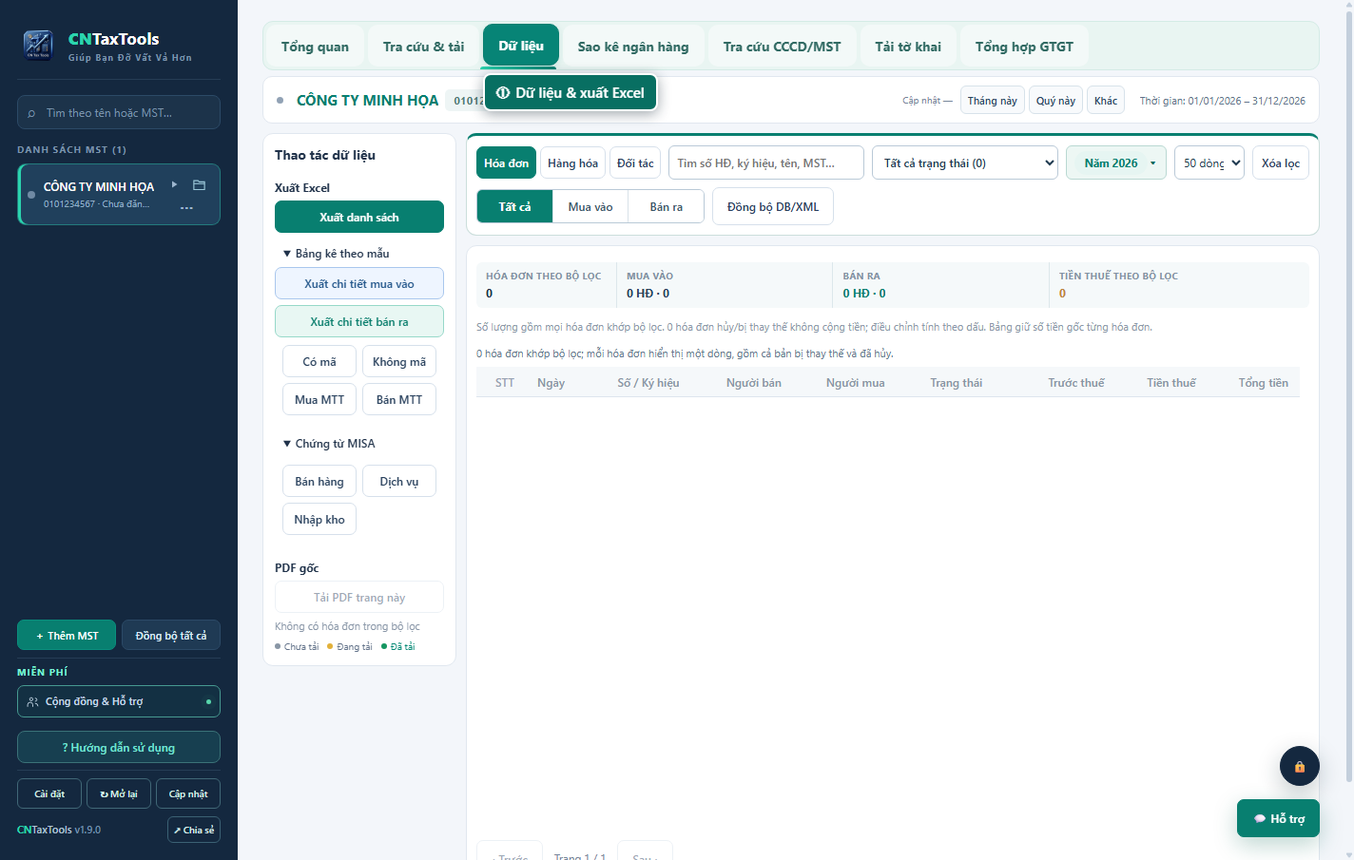
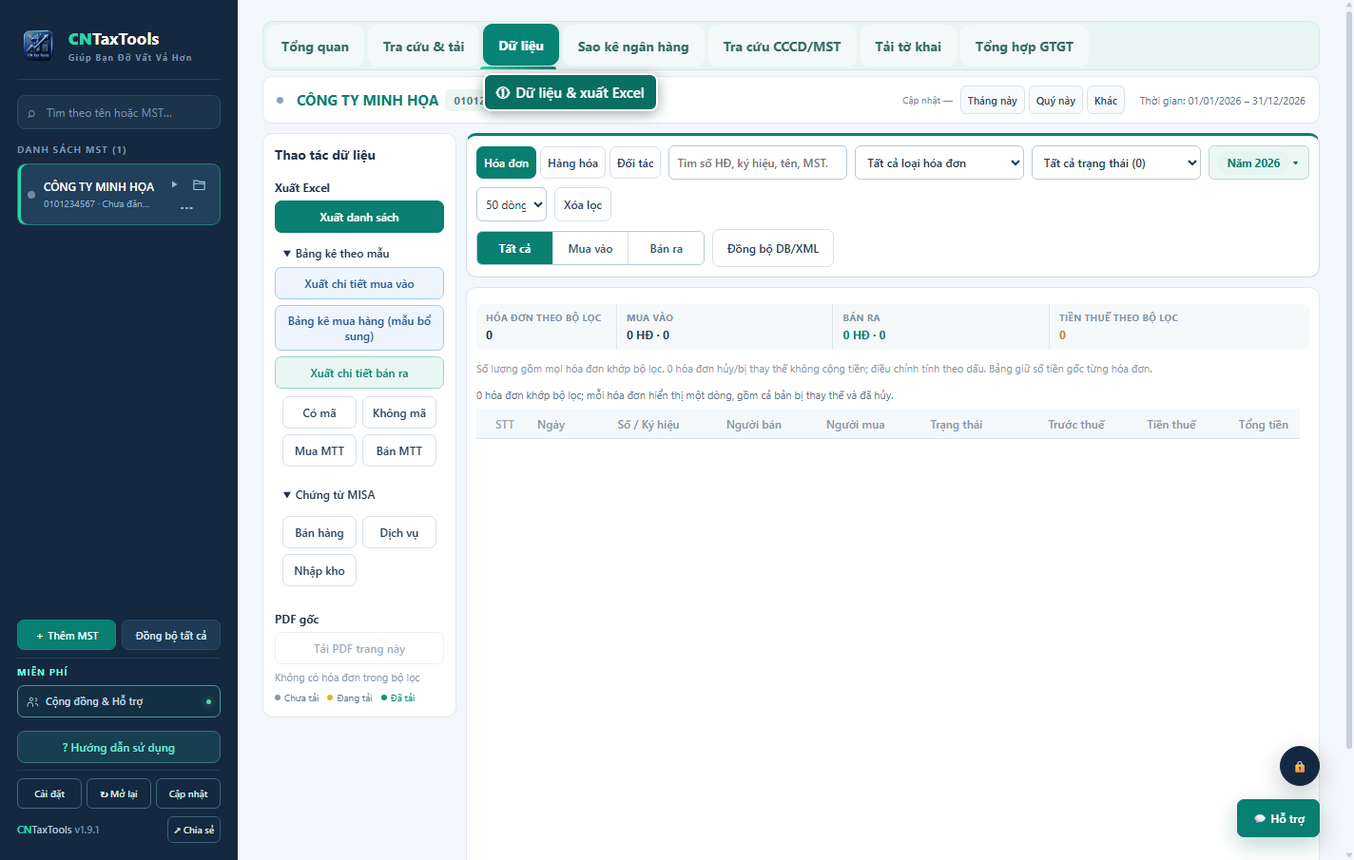
docs: update guide for v1.9.1

diff --git a/huong-dan/index.html b/huong-dan/index.html
@@ -1,1 +1,1 @@
-<!doctype html><html lang="vi"><head><meta charset="utf-8"><meta name="viewport" content="width=device-width,initial-scale=1"><title>Hướng dẫn CNTaxTools — Từ cài đặt đến sử dụng</title><meta name="description" content="Hướng dẫn CNTaxTools bằng hình ảnh: cài đặt, thêm MST, tải hóa đơn, xuất Excel, sao kê và tờ khai."><link rel="stylesheet" href="guide.css"></head><body><header><a href="../">← CNTaxTools</a><strong>Hướng dẫn sử dụng</strong><a href="../#install">Tải & cài đặt</a></header><div class="layout"><nav aria-label="Mục hướng dẫn"><h2>Bạn cần làm gì?</h2><label for="guide-search">Tìm chức năng</label><input id="guide-search" type="search" placeholder="Ví dụ: tải hóa đơn, Excel…"><p id="guide-empty" hidden>Không tìm thấy. Thử từ khóa khác.</p><div id="guide-topics"><a href="#cai-dat"><span>01</span>Cài đặt ứng dụng</a><a href="#them-mst"><span>02</span>Bắt đầu: thêm MST</a><a href="#tai-hoa-don"><span>03</span>Tra cứu &amp; tải hóa đơn</a><a href="#du-lieu"><span>04</span>Dữ liệu &amp; xuất Excel</a><a href="#tong-quan"><span>05</span>Tổng quan</a><a href="#sao-ke"><span>06</span>Sao kê, công nợ &amp; sổ tiền</a><a href="#tra-cuu-mst"><span>07</span>Tra cứu CCCD/MST</a><a href="#to-khai"><span>08</span>Tải tờ khai</a><a href="#thue"><span>09</span>Tổng hợp GTGT</a><a href="#cap-nhat"><span>10</span>Cập nhật &amp; hỗ trợ</a></div><small>Đối chiếu nội dung: 2026-10-28<br>Dành cho phiên bản 1.9.0</small></nav><main><article id="cai-dat" data-topic><p class="eyebrow">1 / 10 · CNTaxTools 1.9.0</p><h1>Cài đặt ứng dụng</h1><p class="intro">Tải bộ cài chính thức, xử lý cảnh báo và mở ứng dụng.</p><figure><a href="images/cai-dat.png" target="_blank" rel="noopener"><img src="images/cai-dat.png" alt="Cài đặt ứng dụng — giao diện với dữ liệu minh họa" loading="lazy" width="1440" height="1000"></a><figcaption>Ảnh tham khảo cảnh báo Windows (Microsoft / Wikimedia Commons, PD-text). Bấm ảnh để phóng to.</figcaption></figure><ol><li>Mở trang CNTaxTools và chọn Tải cho Windows. Bộ cài CNTaxTools-Setup-v…exe và tên tương thích CN-Tax-Tools-Setup-v…exe có cùng nội dung.</li><li>Nếu trình duyệt chặn vì file chưa phổ biến, kiểm tra link tải chính thức. Có thể sao chép link và mở bằng Chrome.</li><li>Bộ cài chứa đầy đủ chương trình, không cần tải thêm thành phần sau khi cài. Nếu Windows hiện “Windows protected your PC”, kiểm tra đúng file từ trang chính thức trước khi chọn More info và Run anyway nếu có.</li><li>Khi nâng cấp, để trống phần chọn dữ liệu để giữ kho đang dùng. Muốn dùng thư mục du_lieu cũ, đóng ứng dụng cũ rồi chọn đúng thư mục; lựa chọn Dùng trực tiếp giữ nguyên kho, không gộp hai kho.</li><li>Mở CNTaxTools từ biểu tượng trên màn hình. Gỡ cài đặt vẫn giữ dữ liệu, mật khẩu đã lưu và cookie để cài lại dùng tiếp.</li></ol><aside>Nếu trình bảo vệ báo phát hiện mã độc hoặc máy cơ quan không cho phép chạy, dừng lại và liên hệ hỗ trợ/quản trị viên; không tắt phần mềm bảo vệ.</aside><p><a href="../#install">Xem ảnh cảnh báo Edge và Windows →</a></p><footer><a href="#cai-dat">← Mục trước</a><button type="button" class="copy-link">Sao chép link mục này</button><a href="#them-mst">Mục tiếp →</a></footer><p class="copy-status" role="status"></p></article><article id="them-mst" data-topic><p class="eyebrow">2 / 10 · CNTaxTools 1.9.0</p><h1>Bắt đầu: thêm MST</h1><p class="intro">Tạo khách hàng đầu tiên và chọn thư mục hóa đơn.</p><figure><a href="images/them-mst.png" target="_blank" rel="noopener"><img src="images/them-mst.png" alt="Bắt đầu: thêm MST — giao diện với dữ liệu minh họa" loading="lazy" width="1440" height="1000"></a><figcaption>Ảnh từ giao diện thử với dữ liệu minh họa. Bấm ảnh để phóng to.</figcaption></figure><ol><li>Bấm + Thêm MST ở cột bên trái.</li><li>Nhập tên khách hàng và mã số thuế. Nhập mật khẩu cổng thuế nếu muốn ứng dụng hỗ trợ đăng nhập.</li><li>Bấm Lưu vào danh sách, rồi chọn khách hàng vừa thêm ở cột trái.</li><li>Mở Tra cứu &amp; tải để chọn thư mục lưu hóa đơn nếu chưa thiết lập. Kiểm tra đúng MST trước khi tra cứu hoặc xuất file.</li></ol><aside>Mỗi khách hàng là một MST. Luôn kiểm tra MST đang chọn trước khi thao tác.</aside><footer><a href="#cai-dat">← Mục trước</a><button type="button" class="copy-link">Sao chép link mục này</button><a href="#tai-hoa-don">Mục tiếp →</a></footer><p class="copy-status" role="status"></p></article><article id="tai-hoa-don" data-topic><p class="eyebrow">3 / 10 · CNTaxTools 1.9.0</p><h1>Tra cứu &amp; tải hóa đơn</h1><p class="intro">Chọn kỳ, mua vào/bán ra và loại file cần lấy.</p><figure><a href="images/tai-hoa-don.png" target="_blank" rel="noopener"><img src="images/tai-hoa-don.png" alt="Tra cứu &amp; tải hóa đơn — giao diện với dữ liệu minh họa" loading="lazy" width="1440" height="1000"></a><figcaption>Ảnh từ giao diện thử với dữ liệu minh họa. Bấm ảnh để phóng to.</figcaption></figure><ol><li>Chọn MST bên trái rồi mở tab Tra cứu &amp; tải.</li><li>Chọn khoảng ngày và chiều Mua vào hoặc Bán ra theo nhu cầu.</li><li>Chọn XML nếu cần hóa đơn kèm bảng kê. Chế độ chỉ bảng kê Excel không tải file hóa đơn.</li><li>Bình thường để Fix lỗi MTT tắt. Khi tải hóa đơn máy tính tiền chậm, bật Fix lỗi MTT để tải đồng thời toàn bộ hóa đơn MTT sẵn sàng, không áp trần luồng; hóa đơn điện tử vẫn giữ nhịp mặc định.</li><li>Bắt đầu tải và theo dõi thông báo. Lỗi tạm thời như 429/504 được chờ rồi tự thử lại; bấm Ngưng để dừng. CAPTCHA tra cứu sai được lấy lại; hết phiên sẽ thử đăng nhập lại bằng tài khoản đã lưu, sai mật khẩu thì dừng.</li><li>Trong cấu hình Đồng bộ có lựa chọn Fix lỗi MTT riêng cho từng MST, mặc định tắt. Bật ở màn hình tải không tự bật cho Đồng bộ.</li><li>Mở thư mục của MST để kiểm tra file đã tải.</li></ol><aside>Cổng thuế có thể giới hạn truy cập hoặc yêu cầu đăng nhập lại. Không bấm tải liên tục khi đang có cảnh báo chờ. Bảng tổng hợp gốc dùng bộ lọc riêng của cổng nên có thể khác bộ lọc hóa đơn; ứng dụng ghi rõ giới hạn và hiển thị lỗi nguyên văn từ nguồn.</aside><footer><a href="#them-mst">← Mục trước</a><button type="button" class="copy-link">Sao chép link mục này</button><a href="#du-lieu">Mục tiếp →</a></footer><p class="copy-status" role="status"></p></article><article id="du-lieu" data-topic><p class="eyebrow">4 / 10 · CNTaxTools 1.9.0</p><h1>Dữ liệu &amp; xuất Excel</h1><p class="intro">Lọc, xem liên kết hóa đơn, đối chiếu DB/XML và xuất Excel.</p><figure><a href="images/du-lieu.png" target="_blank" rel="noopener"><img src="images/du-lieu.png" alt="Dữ liệu &amp; xuất Excel — giao diện với dữ liệu minh họa" loading="lazy" width="1440" height="1000"></a><figcaption>Ảnh từ giao diện thử với dữ liệu minh họa. Bấm ảnh để phóng to.</figcaption></figure><ol><li>Chọn Dữ liệu, rồi chọn Hóa đơn, Hàng hóa hoặc Đối tác. Kiểm tra MST và kỳ trước khi xem số tiền.</li><li>Bấm Tháng này hoặc Quý này cùng hàng tên công ty để đổi kỳ nhanh. Bấm Khác để chọn tháng, quý, năm, tất cả hoặc nhập khoảng ngày rồi bấm Áp dụng. Dòng Thời gian bên cạnh cho biết khoảng ngày đang lọc. Chọn trạng thái hóa đơn kết hợp tìm kiếm và Mua vào/Bán ra trên thanh lọc chính. Mỗi hóa đơn khớp bộ lọc hiển thị một dòng, kể cả bản bị thay thế hoặc đã hủy. Bấm liên kết trên dòng để xem hóa đơn gốc, điều chỉnh hoặc thay thế.</li><li>Thống kê tiền loại hóa đơn hủy/bị thay thế, giữ hóa đơn gốc đã điều chỉnh cùng số tăng giảm. Bảng vẫn giữ số gốc từng chứng từ để tra cứu.</li><li>Nút Đồng bộ DB/XML cùng hàng Tất cả, Mua vào, Bán ra đọc lại XML trong kho để cập nhật dữ liệu của MST đang chọn. Hóa đơn chỉ có dữ liệu cục thuế vẫn có dòng trong danh sách và được tính tiền tổng đã biết; phần thiếu thuế hoặc chi tiết được báo riêng.</li><li>Bấm hóa đơn để xem PDF gốc nếu đã có. Khung xem có tiêu đề Hóa đơn. Nếu chưa có PDF gốc thì mở bản thể hiện từ XML hoặc dữ liệu Cục Thuế đã lưu; trường chưa có để trống. Có thể tải lại hoặc chọn file PDF gốc.</li><li>Chọn Xuất Excel hoặc mẫu bảng kê/chứng từ để xuất trực tiếp theo bộ lọc hiện tại, không cần xác nhận phân loại hay đối chiếu liên kết. File giữ cả bản bị thay thế và đã hủy nếu khớp bộ lọc. Hai nút Xuất chi tiết mua vào (xanh dương) và Xuất chi tiết bán ra (xanh ngọc) xuất từng dòng hàng theo chiều tương ứng, giữ kỳ, tìm kiếm và trạng thái đang lọc. Hóa đơn thiếu XML vẫn giữ thông tin và số tiền tổng, phần chi tiết chưa có để trống.</li></ol><aside>Đơn vị tiền trống dùng VND; ngoại tệ được tách riêng. Cùng kỳ và phạm vi, tiền thống kê khớp Tổng quan. Không suy ra quyền khấu trừ từ màu hoặc số tiền.</aside><footer><a href="#tai-hoa-don">← Mục trước</a><button type="button" class="copy-link">Sao chép link mục này</button><a href="#tong-quan">Mục tiếp →</a></footer><p class="copy-status" role="status"></p></article><article id="tong-quan" data-topic><p class="eyebrow">5 / 10 · CNTaxTools 1.9.0</p><h1>Tổng quan</h1><p class="intro">Xem mua vào, bán ra và các việc cần đối chiếu theo kỳ.</p><figure><a href="images/tong-quan.png" target="_blank" rel="noopener"><img src="images/tong-quan.png" alt="Tổng quan — giao diện với dữ liệu minh họa" loading="lazy" width="1440" height="1000"></a><figcaption>Ảnh từ giao diện thử với dữ liệu minh họa. Bấm ảnh để phóng to.</figcaption></figure><ol><li>Chọn MST và kỳ ở thanh trên cùng. Bán ra và mua vào là tổng thanh toán của hóa đơn đang sử dụng, không phải lợi nhuận.</li><li>Số tiền cùng cách tính với tab Dữ liệu. Hóa đơn hủy/bị thay thế không cộng; gốc đã điều chỉnh và phần tăng giảm vẫn giữ.</li><li>Kết quả đã tính được dùng lại khi dữ liệu không đổi. Các ô tiền có thể hiện trước khi phần ngân hàng/công nợ tải xong.</li><li>Mở các mục cần kiểm tra để xem chứng từ và xử lý. Dữ liệu còn thiếu được ghi rõ, không coi phần thiếu là số 0.</li></ol><aside>Cache hiện nằm trong RAM; sau khi tắt hoặc cập nhật ứng dụng, lần đầu có thể cần tính lại. Chênh lệch bán–mua không phải lợi nhuận.</aside><footer><a href="#du-lieu">← Mục trước</a><button type="button" class="copy-link">Sao chép link mục này</button><a href="#sao-ke">Mục tiếp →</a></footer><p class="copy-status" role="status"></p></article><article id="sao-ke" data-topic><p class="eyebrow">6 / 10 · CNTaxTools 1.9.0</p><h1>Sao kê, công nợ &amp; sổ tiền</h1><p class="intro">Nhập sao kê, đối chiếu hóa đơn, theo dõi công nợ và lập sổ.</p><figure><a href="images/sao-ke.png" target="_blank" rel="noopener"><img src="images/sao-ke.png" alt="Sao kê, công nợ &amp; sổ tiền — giao diện với dữ liệu minh họa" loading="lazy" width="1440" height="1000"></a><figcaption>Ảnh từ giao diện thử với dữ liệu minh họa. Bấm ảnh để phóng to.</figcaption></figure><ol><li>Chọn MST, mở Sao kê ngân hàng. Bấm Nhập file sao kê, chọn tài khoản/loại tiền và kiểm tra trước khi lưu.</li><li>Ở Giao dịch, Nợ là tiền vào và Có là tiền ra khỏi tài khoản ngân hàng (TK 112). Tìm kiếm hoặc chọn nhiều dòng để phân loại. Nhập trùng được kiểm tra trước khi lưu.</li><li>Mở Đối chiếu để xem gợi ý theo hóa đơn. Kiểm tra bằng chứng rồi Xác nhận với căn cứ thanh toán; dùng Phân bổ khác cho nhiều hóa đơn hoặc thanh toán một phần. Gợi ý chưa làm giảm công nợ.</li><li>Mở Công nợ để xem khách hàng/nhà cung cấp, số đã xác nhận và còn lại. Lọc chiều, trạng thái hoặc tìm số hóa đơn, tên, MST.</li><li>Mở Sổ tiền gửi để xem số dư từng tài khoản/loại tiền. Khai số dư đầu có căn cứ; kiểm tra các dòng lệch số dư sao kê.</li><li>Mở Sổ quỹ, tạo quỹ tiền mặt và lập phiếu thu/chi thực tế. Có thể gắn thanh toán vào hóa đơn; hủy phiếu sai có lý do.</li><li>Bấm Lập nghiệp vụ từ giao dịch hoặc phiếu, mở Nghiệp vụ kiểm tra tài khoản Nợ/Có và chứng từ trước khi xác nhận. Không tự suy ra doanh thu/chi phí từ dòng tiền chưa rõ.</li><li>Bấm Xuất Excel ở khu vực đang xem để lấy sổ tiền gửi, tiền mặt, công nợ, thanh toán hóa đơn, nghiệp vụ và cảnh báo theo kỳ.</li></ol><aside>Chưa xác nhận không khẳng định thực tế chưa trả. Không cộng trực tiếp ngoại tệ vào VND; xác nhận phân bổ ngân hàng và nghiệp vụ hiện dành cho VND. Chuỗi hóa đơn điều chỉnh được tách để đối chiếu, chưa tự chốt công nợ ròng. Sổ quản trị cần được kiểm tra theo chế độ kế toán áp dụng.</aside><footer><a href="#tong-quan">← Mục trước</a><button type="button" class="copy-link">Sao chép link mục này</button><a href="#tra-cuu-mst">Mục tiếp →</a></footer><p class="copy-status" role="status"></p></article><article id="tra-cuu-mst" data-topic><p class="eyebrow">7 / 10 · CNTaxTools 1.9.0</p><h1>Tra cứu CCCD/MST</h1><p class="intro">Nhập tay hoặc nhập danh sách từ Excel, giữ mã 12 số và số 0 đầu.</p><figure><a href="images/tra-cuu-mst.png" target="_blank" rel="noopener"><img src="images/tra-cuu-mst.png" alt="Tra cứu CCCD/MST — giao diện với dữ liệu minh họa" loading="lazy" width="1440" height="1000"></a><figcaption>Ảnh từ giao diện thử với dữ liệu minh họa. Bấm ảnh để phóng to.</figcaption></figure><ol><li>Mở Tra cứu CCCD/MST.</li><li>Nhập CCCD hoặc MST bên trái; mỗi mã một dòng, hoặc ngăn cách bằng dấu phẩy.</li><li>Hoặc bấm Nhập Excel, chọn file .xlsx, .xls hoặc .csv. Nếu có nhiều cột phù hợp, chọn cột cần dùng. Kiểm tra danh sách mã và các dòng cần kiểm tra trước khi tiếp tục.</li><li>Bấm Bắt đầu tra cứu và xem kết quả bên phải; nhập Excel chưa tự gửi tra cứu.</li><li>Nếu nguồn tra cứu đầu tiên không trả kết quả, làm theo yêu cầu nguồn dự phòng khi xuất hiện.</li></ol><aside>Giữ mã đầy đủ trong Excel, kể cả số 0 đầu; ứng dụng không thể phục hồi số đã bị Excel xóa. Không tìm thấy qua một nguồn chưa chứng minh người đó chưa đăng ký kinh doanh.</aside><footer><a href="#sao-ke">← Mục trước</a><button type="button" class="copy-link">Sao chép link mục này</button><a href="#to-khai">Mục tiếp →</a></footer><p class="copy-status" role="status"></p></article><article id="to-khai" data-topic><p class="eyebrow">8 / 10 · CNTaxTools 1.9.0</p><h1>Tải tờ khai</h1><p class="intro">Tìm kiếm, tự tải XML và xem PDF từ nội dung XML.</p><figure><a href="images/to-khai.png" target="_blank" rel="noopener"><img src="images/to-khai.png" alt="Tải tờ khai — giao diện với dữ liệu minh họa" loading="lazy" width="1440" height="1000"></a><figcaption>Ảnh từ giao diện thử với dữ liệu minh họa. Bấm ảnh để phóng to.</figcaption></figure><ol><li>Chọn đúng MST rồi mở Tải tờ khai.</li><li>Chọn cổng Dịch vụ công hoặc Thuế điện tử. Ứng dụng kiểm tra phiên của MST đang chọn; phiên còn hiệu lực được dùng lại. Nếu chưa đăng nhập hoặc hết phiên, modal hiển thị đúng MST/cổng để nhập tài khoản, mật khẩu và CAPTCHA.</li><li>Khi trạng thái chuyển xanh, chọn loại hồ sơ và thời gian tra cứu.</li><li>Bấm Tìm kiếm: khi có hồ sơ, ứng dụng tự tải các XML và giải nén XML trong ZIP vào thư mục MST đang quản lý.</li><li>Đợi tải và dựng bản xem hoàn tất. Hồ sơ không có XML hoặc tải lỗi sẽ hiển thị trạng thái để kiểm tra.</li><li>Bấm nút tên XML trên hồ sơ; XML trong ZIP cũ được giải nén vào cùng thư mục rồi đưa vào danh sách. Tờ khai chính được ưu tiên mở trước các thông báo.</li><li>Chọn Bản dựng để xem PDF ngay trong ứng dụng, hoặc iTaxViewer để mở XML trong cửa sổ iTaxViewer riêng. Chuyển lại Bản dựng sẽ giữ PDF đang xem.</li><li>Trong chế độ Bản dựng, bấm Lưu PDF để lưu ngay cạnh XML tờ khai, hoặc bấm In. Trong chế độ iTaxViewer, dùng menu In của iTaxViewer; các nút lưu/in bản dựng chỉ bật khi trở về Bản dựng.</li><li>PDF ưu tiên dựng bằng mẫu iTaxViewer đã cài trên máy, đúng mã và phiên bản XML, khổ A4 ngang. Nếu không tìm thấy mẫu phù hợp, giao diện ghi rõ chỉ là bản đọc dữ liệu. Phần chữ ký hiển thị theo XML, chưa xác minh tính hợp lệ; XML gốc không đổi.</li></ol><aside>Màu vàng là đang kiểm tra hoặc chờ thử lại. CAPTCHA tự thử lại khi lỗi kết nối tạm thời; có thể bấm Đổi mã. Đổi MST đóng modal cũ và lấy mã riêng cho MST mới. Có thể dùng Đồng bộ Web để đăng nhập trên Chrome.</aside><footer><a href="#tra-cuu-mst">← Mục trước</a><button type="button" class="copy-link">Sao chép link mục này</button><a href="#thue">Mục tiếp →</a></footer><p class="copy-status" role="status"></p></article><article id="thue" data-topic><p class="eyebrow">9 / 10 · CNTaxTools 1.9.0</p><h1>Tổng hợp GTGT</h1><p class="intro">Đối chiếu tổng tiền và thuế GTGT theo quý, xuất Excel hoặc PDF.</p><figure><a href="images/thue.png" target="_blank" rel="noopener"><img src="images/thue.png" alt="Tổng hợp GTGT — giao diện với dữ liệu minh họa" loading="lazy" width="1440" height="1000"></a><figcaption>Ảnh từ giao diện thử với dữ liệu minh họa. Bấm ảnh để phóng to.</figcaption></figure><ol><li>Mở Tổng hợp GTGT, chọn quý và đơn vị tiền. Mặc định VND; ngoại tệ xem riêng.</li><li>Đọc tổng tiền mua/bán, tiền trước thuế và tiền thuế. Phần lẻ được giữ nguyên; hóa đơn thiếu số tiền được báo rõ.</li><li>Bảng theo thuế suất tách phần có chi tiết, phần chưa phân loại/đối chiếu và tổng trên hóa đơn. Hóa đơn chưa có XML vẫn nằm trong tiền tổng nếu có dữ liệu cục thuế.</li><li>Nếu cần, mở mục khoản khấu trừ để nhập số đã kiểm tra. Ứng dụng không tự coi toàn bộ thuế mua vào là được khấu trừ.</li><li>Chọn Xuất Excel hoặc Xuất PDF. Kiểm tra đúng kỳ/đơn vị; file dùng cùng số liệu đang hiển thị.</li></ol><aside>Bảng tham khảo theo ngày lập hóa đơn; chưa phải tờ khai hoặc số thuế đã chốt. Cần đối chiếu riêng điều chỉnh/thay thế khác kỳ.</aside><footer><a href="#to-khai">← Mục trước</a><button type="button" class="copy-link">Sao chép link mục này</button><a href="#cap-nhat">Mục tiếp →</a></footer><p class="copy-status" role="status"></p></article><article id="cap-nhat" data-topic><p class="eyebrow">10 / 10 · CNTaxTools 1.9.0</p><h1>Cập nhật &amp; hỗ trợ</h1><p class="intro">Kiểm tra bản mới, mở lại ứng dụng và nhận trợ giúp.</p><figure><a href="images/cap-nhat.png" target="_blank" rel="noopener"><img src="images/cap-nhat.png" alt="Cập nhật &amp; hỗ trợ — giao diện với dữ liệu minh họa" loading="lazy" width="1440" height="1000"></a><figcaption>Ảnh từ giao diện thử với dữ liệu minh họa. Bấm ảnh để phóng to.</figcaption></figure><ol><li>Bấm Cập nhật ở cuối cột trái để kiểm tra phiên bản mới.</li><li>Đọc nội dung thay đổi trước khi chọn cập nhật. Có thể để cập nhật sau.</li><li>Khi cần khởi động lại cả ứng dụng chạy nền, dùng Mở lại.</li><li>Mở Cộng đồng &amp; Hỗ trợ nếu cần trao đổi thêm. Gửi ảnh lỗi và bước thao tác; không gửi mật khẩu.</li></ol><aside>Hoàn tất hoặc dừng an toàn tác vụ đang chạy trước khi khởi động lại hay cập nhật.</aside><footer><a href="#thue">← Mục trước</a><button type="button" class="copy-link">Sao chép link mục này</button><a href="#cap-nhat">Mục tiếp →</a></footer><p class="copy-status" role="status"></p></article></main></div><script src="guide.js" defer></script></body></html>
+<!doctype html><html lang="vi"><head><meta charset="utf-8"><meta name="viewport" content="width=device-width,initial-scale=1"><title>Hướng dẫn CNTaxTools — Từ cài đặt đến sử dụng</title><meta name="description" content="Hướng dẫn CNTaxTools bằng hình ảnh: cài đặt, thêm MST, tải hóa đơn, xuất Excel, sao kê và tờ khai."><link rel="stylesheet" href="guide.css"></head><body><header><a href="../">← CNTaxTools</a><strong>Hướng dẫn sử dụng</strong><a href="../#install">Tải & cài đặt</a></header><div class="layout"><nav aria-label="Mục hướng dẫn"><h2>Bạn cần làm gì?</h2><label for="guide-search">Tìm chức năng</label><input id="guide-search" type="search" placeholder="Ví dụ: tải hóa đơn, Excel…"><p id="guide-empty" hidden>Không tìm thấy. Thử từ khóa khác.</p><div id="guide-topics"><a href="#cai-dat"><span>01</span>Cài đặt ứng dụng</a><a href="#them-mst"><span>02</span>Bắt đầu: thêm MST</a><a href="#tai-hoa-don"><span>03</span>Tra cứu &amp; tải hóa đơn</a><a href="#du-lieu"><span>04</span>Dữ liệu &amp; xuất Excel</a><a href="#tong-quan"><span>05</span>Tổng quan</a><a href="#sao-ke"><span>06</span>Sao kê, công nợ &amp; sổ tiền</a><a href="#tra-cuu-mst"><span>07</span>Tra cứu CCCD/MST</a><a href="#to-khai"><span>08</span>Tải tờ khai</a><a href="#thue"><span>09</span>Tổng hợp GTGT</a><a href="#cap-nhat"><span>10</span>Cập nhật &amp; hỗ trợ</a></div><small>Đối chiếu nội dung: 2026-10-31<br>Dành cho phiên bản 1.9.1</small></nav><main><article id="cai-dat" data-topic><p class="eyebrow">1 / 10 · CNTaxTools 1.9.1</p><h1>Cài đặt ứng dụng</h1><p class="intro">Tải bộ cài chính thức, xử lý cảnh báo và mở ứng dụng.</p><figure><a href="images/cai-dat.png" target="_blank" rel="noopener"><img src="images/cai-dat.png" alt="Cài đặt ứng dụng — giao diện với dữ liệu minh họa" loading="lazy" width="1440" height="1000"></a><figcaption>Ảnh tham khảo cảnh báo Windows (Microsoft / Wikimedia Commons, PD-text). Bấm ảnh để phóng to.</figcaption></figure><ol><li>Mở trang CNTaxTools và chọn Tải cho Windows. Bộ cài CNTaxTools-Setup-v…exe và tên tương thích CN-Tax-Tools-Setup-v…exe có cùng nội dung.</li><li>Nếu trình duyệt chặn vì file chưa phổ biến, kiểm tra link tải chính thức. Có thể sao chép link và mở bằng Chrome.</li><li>Bộ cài chứa đầy đủ chương trình, không cần tải thêm thành phần sau khi cài. Nếu Windows hiện “Windows protected your PC”, kiểm tra đúng file từ trang chính thức trước khi chọn More info và Run anyway nếu có.</li><li>Khi nâng cấp, để trống phần chọn dữ liệu để giữ kho đang dùng. Muốn dùng thư mục du_lieu cũ, đóng ứng dụng cũ rồi chọn đúng thư mục; lựa chọn Dùng trực tiếp giữ nguyên kho, không gộp hai kho.</li><li>Mở CNTaxTools từ biểu tượng trên màn hình. Gỡ cài đặt vẫn giữ dữ liệu, mật khẩu đã lưu và cookie để cài lại dùng tiếp.</li></ol><aside>Nếu trình bảo vệ báo phát hiện mã độc hoặc máy cơ quan không cho phép chạy, dừng lại và liên hệ hỗ trợ/quản trị viên; không tắt phần mềm bảo vệ.</aside><p><a href="../#install">Xem ảnh cảnh báo Edge và Windows →</a></p><footer><a href="#cai-dat">← Mục trước</a><button type="button" class="copy-link">Sao chép link mục này</button><a href="#them-mst">Mục tiếp →</a></footer><p class="copy-status" role="status"></p></article><article id="them-mst" data-topic><p class="eyebrow">2 / 10 · CNTaxTools 1.9.1</p><h1>Bắt đầu: thêm MST</h1><p class="intro">Tạo khách hàng đầu tiên và chọn thư mục hóa đơn.</p><figure><a href="images/them-mst.png" target="_blank" rel="noopener"><img src="images/them-mst.png" alt="Bắt đầu: thêm MST — giao diện với dữ liệu minh họa" loading="lazy" width="1440" height="1000"></a><figcaption>Ảnh từ giao diện thử với dữ liệu minh họa. Bấm ảnh để phóng to.</figcaption></figure><ol><li>Bấm + Thêm MST ở cột bên trái.</li><li>Nhập tên khách hàng và mã số thuế. Nhập mật khẩu cổng thuế nếu muốn ứng dụng hỗ trợ đăng nhập.</li><li>Bấm Lưu vào danh sách, rồi chọn khách hàng vừa thêm ở cột trái.</li><li>Mở Tra cứu &amp; tải để chọn thư mục lưu hóa đơn nếu chưa thiết lập. Kiểm tra đúng MST trước khi tra cứu hoặc xuất file.</li></ol><aside>Mỗi khách hàng là một MST. Luôn kiểm tra MST đang chọn trước khi thao tác.</aside><footer><a href="#cai-dat">← Mục trước</a><button type="button" class="copy-link">Sao chép link mục này</button><a href="#tai-hoa-don">Mục tiếp →</a></footer><p class="copy-status" role="status"></p></article><article id="tai-hoa-don" data-topic><p class="eyebrow">3 / 10 · CNTaxTools 1.9.1</p><h1>Tra cứu &amp; tải hóa đơn</h1><p class="intro">Chọn kỳ, mua vào/bán ra và loại file cần lấy.</p><figure><a href="images/tai-hoa-don.png" target="_blank" rel="noopener"><img src="images/tai-hoa-don.png" alt="Tra cứu &amp; tải hóa đơn — giao diện với dữ liệu minh họa" loading="lazy" width="1440" height="1000"></a><figcaption>Ảnh từ giao diện thử với dữ liệu minh họa. Bấm ảnh để phóng to.</figcaption></figure><ol><li>Chọn MST bên trái rồi mở tab Tra cứu &amp; tải.</li><li>Chọn khoảng ngày và chiều Mua vào hoặc Bán ra theo nhu cầu.</li><li>Chọn XML nếu cần hóa đơn kèm bảng kê. Chế độ chỉ bảng kê Excel không tải file hóa đơn.</li><li>Bình thường để Fix lỗi MTT tắt. Khi tải hóa đơn máy tính tiền chậm, bật Fix lỗi MTT để tải đồng thời toàn bộ hóa đơn MTT sẵn sàng, không áp trần luồng; hóa đơn điện tử vẫn giữ nhịp mặc định.</li><li>Bắt đầu tải và theo dõi thông báo. Lỗi tạm thời như 429/504 được chờ rồi tự thử lại; bấm Ngưng để dừng. CAPTCHA tra cứu sai được lấy lại; hết phiên sẽ thử đăng nhập lại bằng tài khoản đã lưu, sai mật khẩu thì dừng.</li><li>Trong cấu hình Đồng bộ có lựa chọn Fix lỗi MTT riêng cho từng MST, mặc định tắt. Bật ở màn hình tải không tự bật cho Đồng bộ.</li><li>Mở thư mục của MST để kiểm tra file đã tải.</li></ol><aside>Cổng thuế có thể giới hạn truy cập hoặc yêu cầu đăng nhập lại. Không bấm tải liên tục khi đang có cảnh báo chờ. Bảng tổng hợp gốc dùng bộ lọc riêng của cổng nên có thể khác bộ lọc hóa đơn; ứng dụng ghi rõ giới hạn và hiển thị lỗi nguyên văn từ nguồn.</aside><footer><a href="#them-mst">← Mục trước</a><button type="button" class="copy-link">Sao chép link mục này</button><a href="#du-lieu">Mục tiếp →</a></footer><p class="copy-status" role="status"></p></article><article id="du-lieu" data-topic><p class="eyebrow">4 / 10 · CNTaxTools 1.9.1</p><h1>Dữ liệu &amp; xuất Excel</h1><p class="intro">Lọc, xem liên kết hóa đơn, đối chiếu DB/XML và xuất Excel.</p><figure><a href="images/du-lieu.png" target="_blank" rel="noopener"><img src="images/du-lieu.png" alt="Dữ liệu &amp; xuất Excel — giao diện với dữ liệu minh họa" loading="lazy" width="1440" height="1000"></a><figcaption>Ảnh từ giao diện thử với dữ liệu minh họa. Bấm ảnh để phóng to.</figcaption></figure><ol><li>Chọn Dữ liệu, rồi chọn Hóa đơn, Hàng hóa hoặc Đối tác. Kiểm tra MST và kỳ trước khi xem số tiền.</li><li>Bấm Tháng này hoặc Quý này cùng hàng tên công ty để đổi kỳ nhanh. Bấm Khác để chọn tháng, quý, năm, tất cả hoặc nhập khoảng ngày rồi bấm Áp dụng. Dòng Thời gian bên cạnh cho biết khoảng ngày đang lọc. Chọn trạng thái hóa đơn, Loại hóa đơn (máy tính tiền, không mã CQT, điện tử) kết hợp tìm kiếm và Mua vào/Bán ra trên thanh lọc chính. Mỗi hóa đơn khớp bộ lọc hiển thị một dòng, kể cả bản bị thay thế hoặc đã hủy. Bấm liên kết trên dòng để xem hóa đơn gốc, điều chỉnh hoặc thay thế.</li><li>Thống kê tiền loại hóa đơn hủy/bị thay thế, giữ hóa đơn gốc đã điều chỉnh cùng số tăng giảm. Bảng vẫn giữ số gốc từng chứng từ để tra cứu.</li><li>Nút Đồng bộ DB/XML cùng hàng Tất cả, Mua vào, Bán ra đọc lại XML trong kho để cập nhật dữ liệu của MST đang chọn. Hóa đơn chỉ có dữ liệu cục thuế vẫn có dòng trong danh sách và được tính tiền tổng đã biết; phần thiếu thuế hoặc chi tiết được báo riêng.</li><li>Bấm hóa đơn để xem PDF gốc nếu đã có. Khung xem có tiêu đề Hóa đơn. Nếu chưa có PDF gốc thì mở bản thể hiện từ XML hoặc dữ liệu Cục Thuế đã lưu; trường chưa có để trống. Có thể tải lại hoặc chọn file PDF gốc.</li><li>Chọn Xuất Excel hoặc mẫu bảng kê/chứng từ để xuất trực tiếp theo bộ lọc hiện tại, không cần xác nhận phân loại hay đối chiếu liên kết. File giữ cả bản bị thay thế và đã hủy nếu khớp bộ lọc. Hai nút Xuất chi tiết mua vào (xanh dương) và Xuất chi tiết bán ra (xanh ngọc) xuất từng dòng hàng theo chiều tương ứng, giữ kỳ, tìm kiếm và trạng thái đang lọc. Nút Bảng kê mua hàng (mẫu bổ sung) xuất bảng kê mua vào theo mẫu bổ sung với đúng bộ lọc hiện tại. Hóa đơn thiếu XML vẫn giữ thông tin và số tiền tổng, phần chi tiết chưa có để trống.</li></ol><aside>Đơn vị tiền trống dùng VND; ngoại tệ được tách riêng. Cùng kỳ và phạm vi, tiền thống kê khớp Tổng quan. Không suy ra quyền khấu trừ từ màu hoặc số tiền.</aside><footer><a href="#tai-hoa-don">← Mục trước</a><button type="button" class="copy-link">Sao chép link mục này</button><a href="#tong-quan">Mục tiếp →</a></footer><p class="copy-status" role="status"></p></article><article id="tong-quan" data-topic><p class="eyebrow">5 / 10 · CNTaxTools 1.9.1</p><h1>Tổng quan</h1><p class="intro">Xem mua vào, bán ra và các việc cần đối chiếu theo kỳ.</p><figure><a href="images/tong-quan.png" target="_blank" rel="noopener"><img src="images/tong-quan.png" alt="Tổng quan — giao diện với dữ liệu minh họa" loading="lazy" width="1440" height="1000"></a><figcaption>Ảnh từ giao diện thử với dữ liệu minh họa. Bấm ảnh để phóng to.</figcaption></figure><ol><li>Chọn MST và kỳ ở thanh trên cùng. Bán ra và mua vào là tổng thanh toán của hóa đơn đang sử dụng, không phải lợi nhuận.</li><li>Số tiền cùng cách tính với tab Dữ liệu. Hóa đơn hủy/bị thay thế không cộng; gốc đã điều chỉnh và phần tăng giảm vẫn giữ.</li><li>Kết quả đã tính được dùng lại khi dữ liệu không đổi. Các ô tiền có thể hiện trước khi phần ngân hàng/công nợ tải xong.</li><li>Mở các mục cần kiểm tra để xem chứng từ và xử lý. Dữ liệu còn thiếu được ghi rõ, không coi phần thiếu là số 0.</li></ol><aside>Cache hiện nằm trong RAM; sau khi tắt hoặc cập nhật ứng dụng, lần đầu có thể cần tính lại. Chênh lệch bán–mua không phải lợi nhuận.</aside><footer><a href="#du-lieu">← Mục trước</a><button type="button" class="copy-link">Sao chép link mục này</button><a href="#sao-ke">Mục tiếp →</a></footer><p class="copy-status" role="status"></p></article><article id="sao-ke" data-topic><p class="eyebrow">6 / 10 · CNTaxTools 1.9.1</p><h1>Sao kê, công nợ &amp; sổ tiền</h1><p class="intro">Nhập sao kê, đối chiếu hóa đơn, theo dõi công nợ và lập sổ.</p><figure><a href="images/sao-ke.png" target="_blank" rel="noopener"><img src="images/sao-ke.png" alt="Sao kê, công nợ &amp; sổ tiền — giao diện với dữ liệu minh họa" loading="lazy" width="1440" height="1000"></a><figcaption>Ảnh từ giao diện thử với dữ liệu minh họa. Bấm ảnh để phóng to.</figcaption></figure><ol><li>Chọn MST, mở Sao kê ngân hàng. Bấm Nhập file sao kê, chọn tài khoản/loại tiền và kiểm tra trước khi lưu.</li><li>Ở Giao dịch, Nợ là tiền vào và Có là tiền ra khỏi tài khoản ngân hàng (TK 112). Tìm kiếm hoặc chọn nhiều dòng để phân loại. Nhập trùng được kiểm tra trước khi lưu.</li><li>Mở Đối chiếu để xem gợi ý theo hóa đơn. Kiểm tra bằng chứng rồi Xác nhận với căn cứ thanh toán; dùng Phân bổ khác cho nhiều hóa đơn hoặc thanh toán một phần. Gợi ý chưa làm giảm công nợ.</li><li>Mở Công nợ để xem khách hàng/nhà cung cấp, số đã xác nhận và còn lại. Lọc chiều, trạng thái hoặc tìm số hóa đơn, tên, MST.</li><li>Mở Sổ tiền gửi để xem số dư từng tài khoản/loại tiền. Khai số dư đầu có căn cứ; kiểm tra các dòng lệch số dư sao kê.</li><li>Mở Sổ quỹ, tạo quỹ tiền mặt và lập phiếu thu/chi thực tế. Có thể gắn thanh toán vào hóa đơn; hủy phiếu sai có lý do.</li><li>Bấm Lập nghiệp vụ từ giao dịch hoặc phiếu, mở Nghiệp vụ kiểm tra tài khoản Nợ/Có và chứng từ trước khi xác nhận. Không tự suy ra doanh thu/chi phí từ dòng tiền chưa rõ.</li><li>Bấm Xuất Excel ở khu vực đang xem để lấy sổ tiền gửi, tiền mặt, công nợ, thanh toán hóa đơn, nghiệp vụ và cảnh báo theo kỳ.</li></ol><aside>Chưa xác nhận không khẳng định thực tế chưa trả. Không cộng trực tiếp ngoại tệ vào VND; xác nhận phân bổ ngân hàng và nghiệp vụ hiện dành cho VND. Chuỗi hóa đơn điều chỉnh được tách để đối chiếu, chưa tự chốt công nợ ròng. Sổ quản trị cần được kiểm tra theo chế độ kế toán áp dụng.</aside><footer><a href="#tong-quan">← Mục trước</a><button type="button" class="copy-link">Sao chép link mục này</button><a href="#tra-cuu-mst">Mục tiếp →</a></footer><p class="copy-status" role="status"></p></article><article id="tra-cuu-mst" data-topic><p class="eyebrow">7 / 10 · CNTaxTools 1.9.1</p><h1>Tra cứu CCCD/MST</h1><p class="intro">Nhập tay hoặc nhập danh sách từ Excel, giữ mã 12 số và số 0 đầu.</p><figure><a href="images/tra-cuu-mst.png" target="_blank" rel="noopener"><img src="images/tra-cuu-mst.png" alt="Tra cứu CCCD/MST — giao diện với dữ liệu minh họa" loading="lazy" width="1440" height="1000"></a><figcaption>Ảnh từ giao diện thử với dữ liệu minh họa. Bấm ảnh để phóng to.</figcaption></figure><ol><li>Mở Tra cứu CCCD/MST.</li><li>Nhập CCCD hoặc MST bên trái; mỗi mã một dòng, hoặc ngăn cách bằng dấu phẩy.</li><li>Hoặc bấm Nhập Excel, chọn file .xlsx, .xls hoặc .csv. Nếu có nhiều cột phù hợp, chọn cột cần dùng. Kiểm tra danh sách mã và các dòng cần kiểm tra trước khi tiếp tục.</li><li>Bấm Bắt đầu tra cứu và xem kết quả bên phải; nhập Excel chưa tự gửi tra cứu.</li><li>Nếu nguồn tra cứu đầu tiên không trả kết quả, làm theo yêu cầu nguồn dự phòng khi xuất hiện.</li></ol><aside>Giữ mã đầy đủ trong Excel, kể cả số 0 đầu; ứng dụng không thể phục hồi số đã bị Excel xóa. Không tìm thấy qua một nguồn chưa chứng minh người đó chưa đăng ký kinh doanh.</aside><footer><a href="#sao-ke">← Mục trước</a><button type="button" class="copy-link">Sao chép link mục này</button><a href="#to-khai">Mục tiếp →</a></footer><p class="copy-status" role="status"></p></article><article id="to-khai" data-topic><p class="eyebrow">8 / 10 · CNTaxTools 1.9.1</p><h1>Tải tờ khai</h1><p class="intro">Tìm kiếm, tự tải XML và xem PDF từ nội dung XML.</p><figure><a href="images/to-khai.png" target="_blank" rel="noopener"><img src="images/to-khai.png" alt="Tải tờ khai — giao diện với dữ liệu minh họa" loading="lazy" width="1440" height="1000"></a><figcaption>Ảnh từ giao diện thử với dữ liệu minh họa. Bấm ảnh để phóng to.</figcaption></figure><ol><li>Chọn đúng MST rồi mở Tải tờ khai.</li><li>Chọn cổng Dịch vụ công hoặc Thuế điện tử. Ứng dụng kiểm tra phiên của MST đang chọn; phiên còn hiệu lực được dùng lại. Nếu chưa đăng nhập hoặc hết phiên, modal hiển thị đúng MST/cổng để nhập tài khoản, mật khẩu và CAPTCHA.</li><li>Khi trạng thái chuyển xanh, chọn loại hồ sơ và thời gian tra cứu.</li><li>Bấm Tìm kiếm: khi có hồ sơ, ứng dụng tự tải các XML và giải nén XML trong ZIP vào thư mục MST đang quản lý.</li><li>Đợi tải và dựng bản xem hoàn tất. Hồ sơ không có XML hoặc tải lỗi sẽ hiển thị trạng thái để kiểm tra.</li><li>Bấm nút tên XML trên hồ sơ; XML trong ZIP cũ được giải nén vào cùng thư mục rồi đưa vào danh sách. Tờ khai chính được ưu tiên mở trước các thông báo.</li><li>Chọn Bản dựng để xem PDF ngay trong ứng dụng, hoặc iTaxViewer để mở XML trong cửa sổ iTaxViewer riêng. Chuyển lại Bản dựng sẽ giữ PDF đang xem.</li><li>Trong chế độ Bản dựng, bấm Lưu PDF để lưu ngay cạnh XML tờ khai, hoặc bấm In. Trong chế độ iTaxViewer, dùng menu In của iTaxViewer; các nút lưu/in bản dựng chỉ bật khi trở về Bản dựng.</li><li>PDF ưu tiên dựng bằng mẫu iTaxViewer đã cài trên máy, đúng mã và phiên bản XML, khổ A4 ngang. Nếu không tìm thấy mẫu phù hợp, giao diện ghi rõ chỉ là bản đọc dữ liệu. Phần chữ ký hiển thị theo XML, chưa xác minh tính hợp lệ; XML gốc không đổi.</li></ol><aside>Màu vàng là đang kiểm tra hoặc chờ thử lại. CAPTCHA tự thử lại khi lỗi kết nối tạm thời; có thể bấm Đổi mã. Đổi MST đóng modal cũ và lấy mã riêng cho MST mới. Có thể dùng Đồng bộ Web để đăng nhập trên Chrome.</aside><footer><a href="#tra-cuu-mst">← Mục trước</a><button type="button" class="copy-link">Sao chép link mục này</button><a href="#thue">Mục tiếp →</a></footer><p class="copy-status" role="status"></p></article><article id="thue" data-topic><p class="eyebrow">9 / 10 · CNTaxTools 1.9.1</p><h1>Tổng hợp GTGT</h1><p class="intro">Đối chiếu tổng tiền và thuế GTGT theo quý, xuất Excel hoặc PDF.</p><figure><a href="images/thue.png" target="_blank" rel="noopener"><img src="images/thue.png" alt="Tổng hợp GTGT — giao diện với dữ liệu minh họa" loading="lazy" width="1440" height="1000"></a><figcaption>Ảnh từ giao diện thử với dữ liệu minh họa. Bấm ảnh để phóng to.</figcaption></figure><ol><li>Mở Tổng hợp GTGT, chọn quý và đơn vị tiền. Mặc định VND; ngoại tệ xem riêng.</li><li>Đọc tổng tiền mua/bán, tiền trước thuế và tiền thuế. Phần lẻ được giữ nguyên; hóa đơn thiếu số tiền được báo rõ.</li><li>Bảng theo thuế suất tách phần có chi tiết, phần chưa phân loại/đối chiếu và tổng trên hóa đơn. Hóa đơn chưa có XML vẫn nằm trong tiền tổng nếu có dữ liệu cục thuế.</li><li>Nếu cần, mở mục khoản khấu trừ để nhập số đã kiểm tra. Ứng dụng không tự coi toàn bộ thuế mua vào là được khấu trừ.</li><li>Chọn Xuất Excel hoặc Xuất PDF. Kiểm tra đúng kỳ/đơn vị; file dùng cùng số liệu đang hiển thị.</li></ol><aside>Bảng tham khảo theo ngày lập hóa đơn; chưa phải tờ khai hoặc số thuế đã chốt. Cần đối chiếu riêng điều chỉnh/thay thế khác kỳ.</aside><footer><a href="#to-khai">← Mục trước</a><button type="button" class="copy-link">Sao chép link mục này</button><a href="#cap-nhat">Mục tiếp →</a></footer><p class="copy-status" role="status"></p></article><article id="cap-nhat" data-topic><p class="eyebrow">10 / 10 · CNTaxTools 1.9.1</p><h1>Cập nhật &amp; hỗ trợ</h1><p class="intro">Kiểm tra bản mới, mở lại ứng dụng và nhận trợ giúp.</p><figure><a href="images/cap-nhat.png" target="_blank" rel="noopener"><img src="images/cap-nhat.png" alt="Cập nhật &amp; hỗ trợ — giao diện với dữ liệu minh họa" loading="lazy" width="1440" height="1000"></a><figcaption>Ảnh từ giao diện thử với dữ liệu minh họa. Bấm ảnh để phóng to.</figcaption></figure><ol><li>Bấm Cập nhật ở cuối cột trái để kiểm tra phiên bản mới.</li><li>Đọc nội dung thay đổi trước khi chọn cập nhật. Có thể để cập nhật sau.</li><li>Khi cần khởi động lại cả ứng dụng chạy nền, dùng Mở lại.</li><li>Mở Cộng đồng &amp; Hỗ trợ nếu cần trao đổi thêm. Gửi ảnh lỗi và bước thao tác; không gửi mật khẩu.</li></ol><aside>Hoàn tất hoặc dừng an toàn tác vụ đang chạy trước khi khởi động lại hay cập nhật.</aside><footer><a href="#thue">← Mục trước</a><button type="button" class="copy-link">Sao chép link mục này</button><a href="#cap-nhat">Mục tiếp →</a></footer><p class="copy-status" role="status"></p></article></main></div><script src="guide.js" defer></script></body></html>
